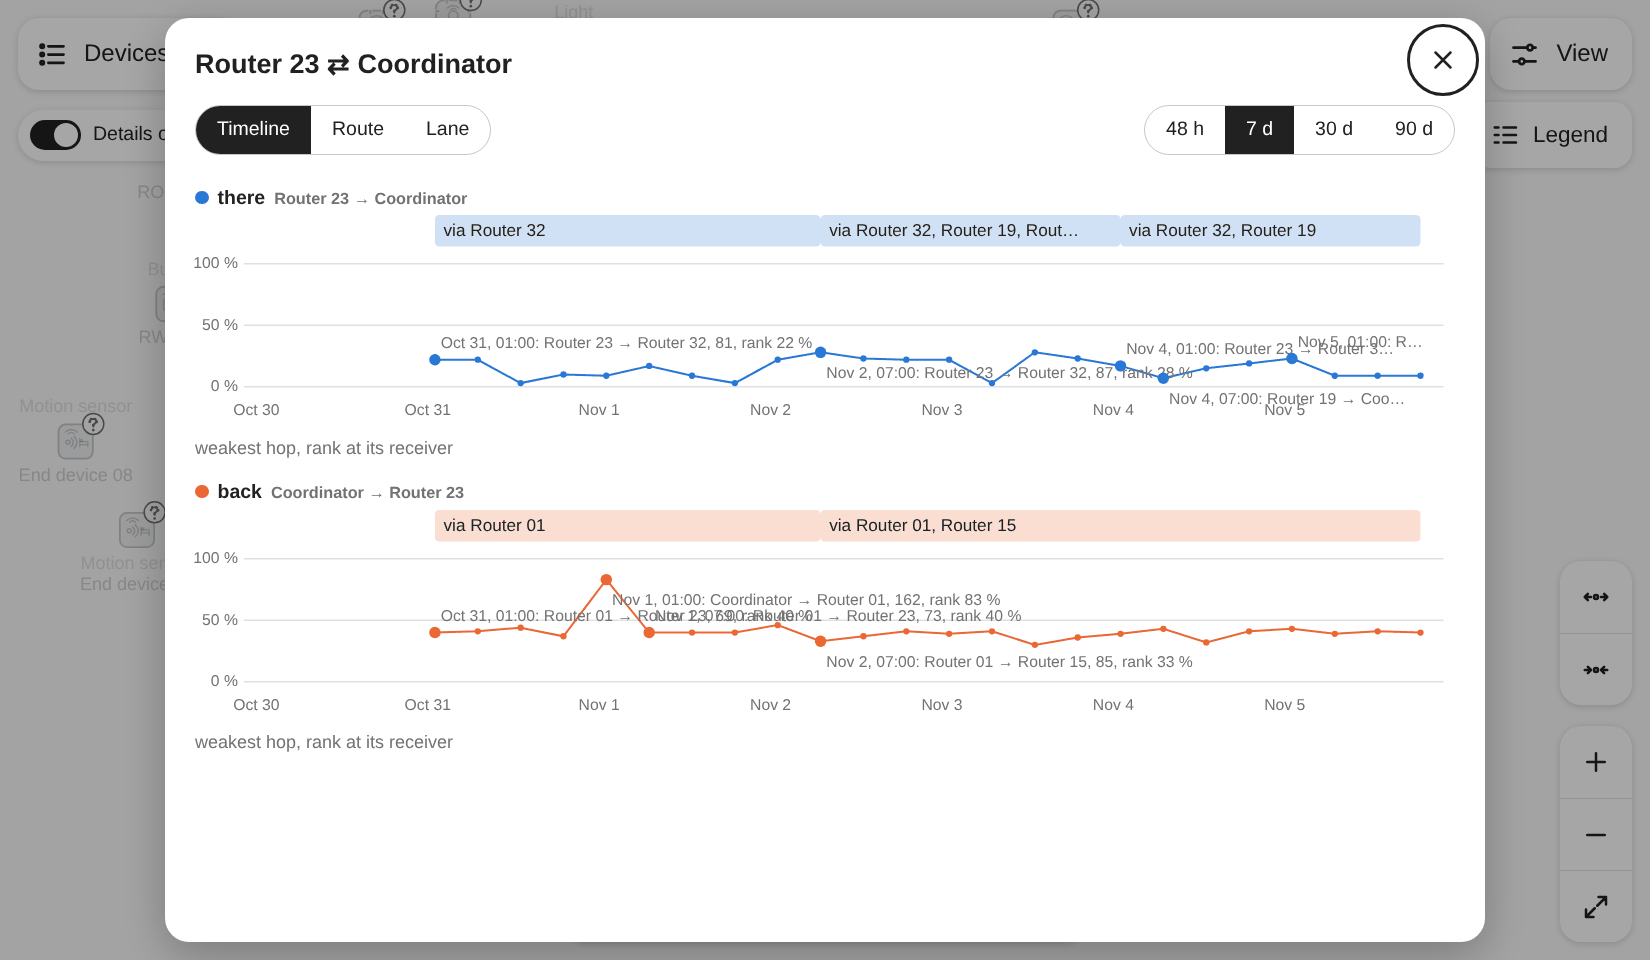
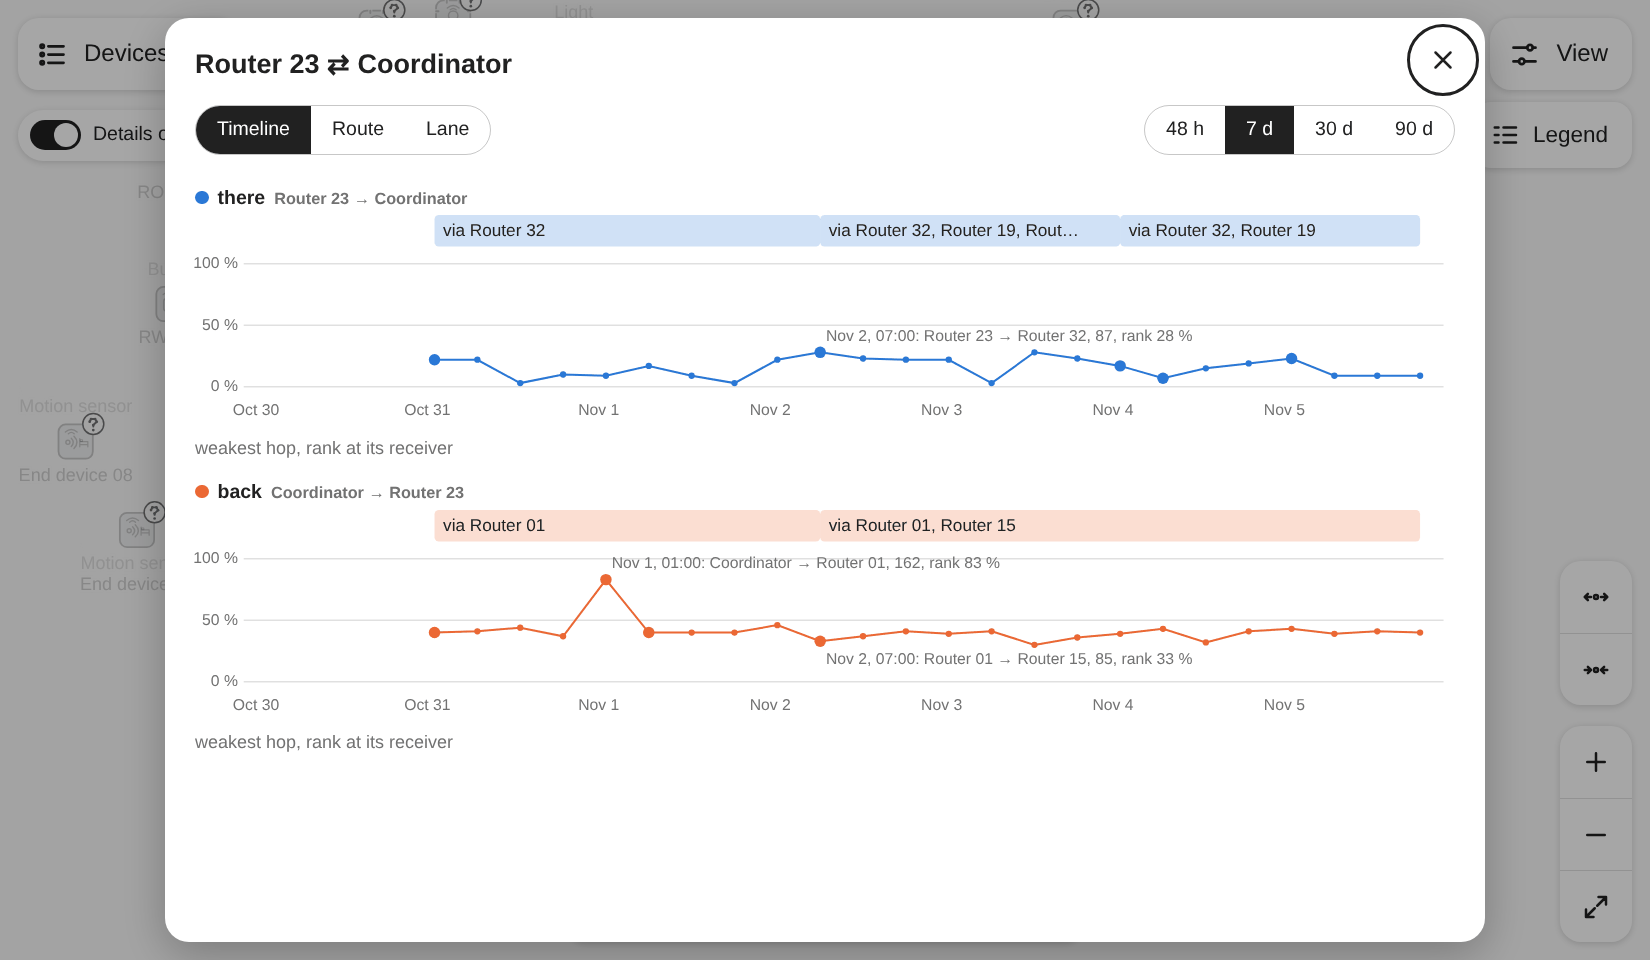
Timeline: weakest-hop labels placed greedily without overlap (placeNotes); history images re-shot
Per direction, left to right: right of the dot above, below, then left above, below; a label that would touch a placed
one, the data line or leave the plot is skipped and stays in the dot's hover title. Test on a 40-note dense series.

Provenance: agent claude-code/sonnet; brief readme2

diff --git a/custom_components/meshroute_topology_explorer/frontend/ui/history-timeline.js b/custom_components/meshroute_topology_explorer/frontend/ui/history-timeline.js
@@ -42,6 +42,37 @@ export function directionModel({ tl, dir, labelOf, t, locale, zone }) {
   return { bands, series, notes };
 }
 
+/** Where the weakest-hop names go, in the chart's coordinates (plot from y 0 to 100, bands above, axis labels below):
+ *  greedy left to right, per note the right of its dot above, below, then the left of it above, below; a label that
+ *  would touch an already placed one, the data line or leave the plot (left edge, right edge, top, bottom) is skipped, its text stays
+ *  in the dot's hover title. Returns [{ text, anchor, x0, x1, y, y0, y1 }] (y = baseline; y0..y1 the text box). Pure. */
+export function placeNotes(notes, { x, y, left, right, top = 1, bottom = 99, series = [] }) {
+  const placed = [];
+  // The data line sampled every 2 px: a label over it would be crossed by it.
+  const line = [];
+  const pts = series.filter(([, v]) => v !== null).map(([t, v]) => [x(t), y(v)]);
+  for (let i = 0; i + 1 < pts.length; i++) {
+    const [[ax, ay], [bx, by]] = [pts[i], pts[i + 1]];
+    for (let k = 0, n = Math.max(1, Math.ceil(Math.abs(bx - ax) / 2)); k <= n; k++) line.push([ax + ((bx - ax) * k) / n, ay + ((by - ay) * k) / n]);
+  }
+  if (pts.length === 1) line.push(pts[0]);
+  const onLine = (b) => line.some(([px, py]) => px >= b.x0 - 3 && px <= b.x1 + 3 && py >= b.y0 - 3 && py <= b.y1 + 3);
+  const hit = (a, b) => a.x0 < b.x1 && b.x0 < a.x1 && a.y0 < b.y1 && b.y0 < a.y1;
+  for (const n of notes) {
+    const [nx, ny] = [x(n.t), y(n.pct)];
+    const w = n.text.length * CHAR;
+    const spots = [["start", nx + 4, -8], ["start", nx + 4, 16], ["end", nx - 4, -8], ["end", nx - 4, 16]];
+    for (const [anchor, ax, dy] of spots) {
+      const [x0, x1] = anchor === "start" ? [ax, ax + w] : [ax - w, ax];
+      const box = { text: n.text, anchor, x0, x1, y: ny + dy, y0: ny + dy - 10, y1: ny + dy + 3 };
+      if (x0 < left || x1 > right || box.y0 < top || box.y1 > bottom || placed.some((o) => hit(o, box)) || onLine(box)) continue;
+      placed.push(box);
+      break;
+    }
+  }
+  return placed;
+}
+
 /** The tab's content. ctx: { t, theme, tl (history.timeline(a, b)), from, to, width, labelOf, walks (a routing table exists), a, b }. */
 export function renderTimeline(container, ctx) {
   const { t, tl, from, to, labelOf } = ctx;
@@ -85,26 +116,17 @@ export function renderTimeline(container, ctx) {
     }
     chart.append(svg("path", { d: linePath(m.series, x, y), fill: "none", stroke: color, "stroke-width": 1.4 }));
     for (const [tt, v] of m.series) if (v !== null) chart.append(svg("circle", { cx: x(tt), cy: y(v), r: 2.2, fill: color, class: "pt" }));
-    // Every change of the weakest hop gets a dot; its name is written where there is room (greedy, left to right).
-    let free = left;
-    let drawn = 0;
+    // Every change of the weakest hop gets a dot; its name is written where it fits (placeNotes), else in the dot's hover.
+    const placed = placeNotes(m.notes, { x, y, left, right: width - 8, series: m.series });
     for (const n of m.notes) {
-      const nx = x(n.t);
-      const dot = svg("circle", { cx: nx, cy: y(n.pct), r: 4, fill: color, class: "note-dot" });
+      const dot = svg("circle", { cx: x(n.t), cy: y(n.pct), r: 4, fill: color, class: "note-dot" });
       const tip = svg("title", {}); tip.textContent = n.text; dot.append(tip);
       chart.append(dot);
-      // The name goes on the side with more room, cut with an ellipsis where it does not fit; too little room: the dot's hover.
-      const [right, left] = [width - 8 - nx - 4, nx - 4 - free];
-      const need = n.text.length * CHAR;
-      const toRight = right >= need || (left < need && right >= left);
-      const chars = Math.floor((toRight ? right : left) / CHAR);
-      if (chars < 12) continue;
-      const shown = n.text.length <= chars ? n.text : `${n.text.slice(0, chars - 1)}…`;
-      free = toRight ? nx + 4 + shown.length * CHAR + 8 : nx + 8;
-      const tx = svg("text", { x: toRight ? nx + 4 : nx - 4, y: y(n.pct) + (drawn % 2 ? 18 : -8), "text-anchor": toRight ? "start" : "end", class: "lbl note" });
-      tx.textContent = shown;
+    }
+    for (const p of placed) {
+      const tx = svg("text", { x: p.anchor === "start" ? p.x0 : p.x1, y: p.y, "text-anchor": p.anchor, class: "lbl note" });
+      tx.textContent = p.text;
       chart.append(tx);
-      drawn += 1;
     }
     g.append(chart);
     const axis = svg("g", { transform: "translate(0 128)" });
